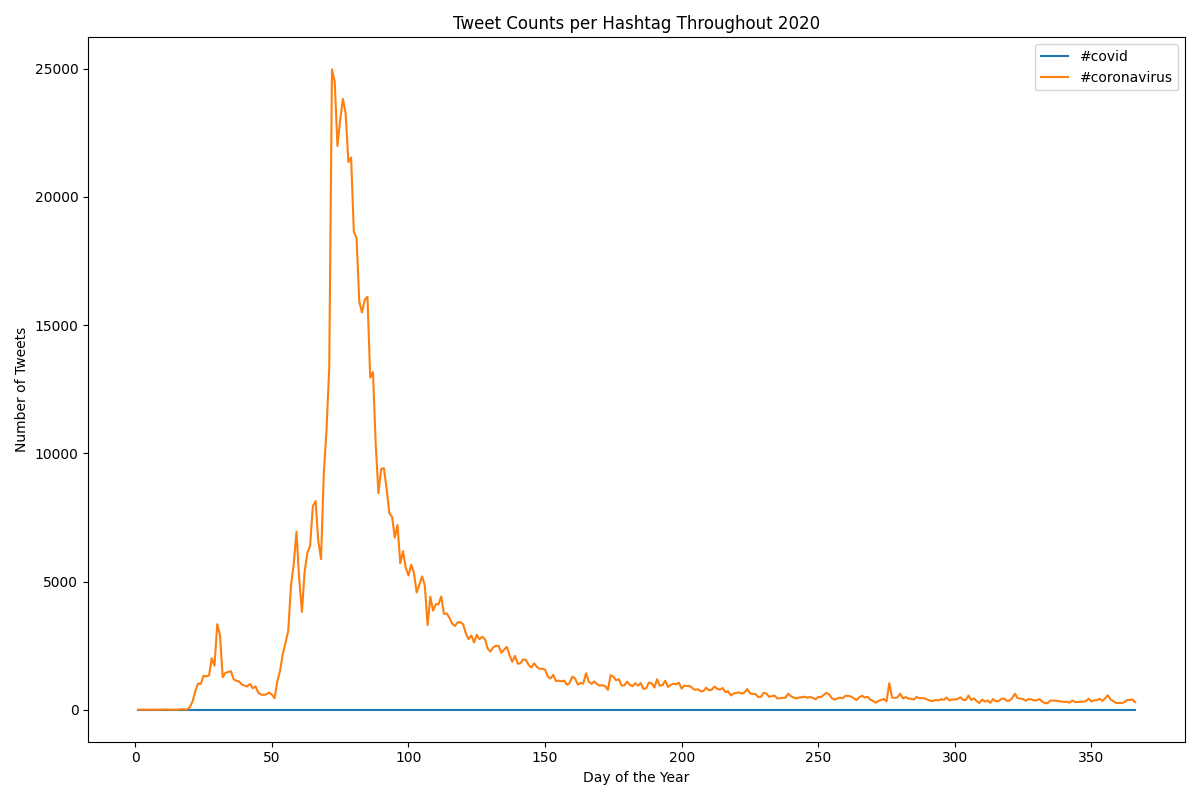
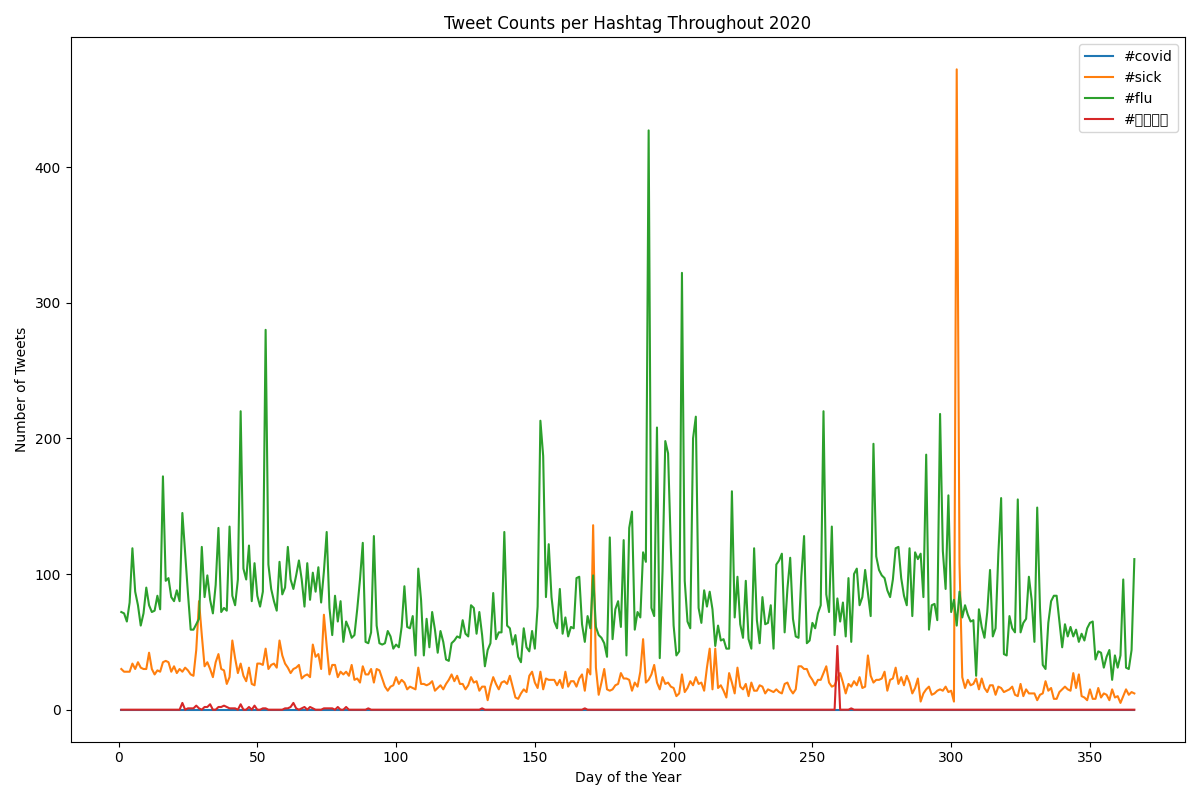
added alt_reduce

diff --git a/src/alternative_reduce.py b/src/alternative_reduce.py
@@ -1,0 +1,78 @@
+#!/usr/bin/env python3
+import argparse
+import os
+import json
+import glob
+import datetime
+import matplotlib.pyplot as plt
+from collections import defaultdict
+
+# Command line arguments: list of hashtags to plot and optionally the input folder
+parser = argparse.ArgumentParser()
+parser.add_argument('--hashtags', nargs='+', required=True, help='List of hashtags to plot')
+parser.add_argument('--input_folder', default='output', help='Folder containing mapping output files (e.g., *.lang files)')
+args = parser.parse_args()
+
+# Data structure: for each hashtag, a dictionary mapping day_of_year -> tweet count
+hashtag_daily_counts = {hashtag: {} for hashtag in args.hashtags}
+
+# Find all .lang files in the input folder. We assume mapping step produced files named like "geoTwitter20-01-01.zip.lang"
+files = glob.glob(os.path.join(args.input_folder, '*.lang'))
+
+# Process each file
+for file_path in files:
+    base_name = os.path.basename(file_path)
+    # Expecting a pattern like: geoTwitter20-01-01.zip.lang
+    if base_name.startswith("geoTwitter") and base_name.endswith(".zip.lang"):
+        # Remove prefix and suffix to isolate the date string.
+        # For example, "geoTwitter20-01-01.zip.lang" -> "20-01-01"
+        date_str = base_name[len("geoTwitter"):-len(".zip.lang")]
+        # Convert to full date; dataset is for 2020, so "20-01-01" becomes "2020-01-01"
+        full_date_str = "2020" + date_str[2:]
+        try:
+            day_date = datetime.datetime.strptime(full_date_str, "%Y-%m-%d").date()
+            day_of_year = day_date.timetuple().tm_yday
+        except Exception as e:
+            # If date parsing fails, skip this file.
+            continue
+    else:
+        continue
+
+    # Open the JSON file and load counts.
+    with open(file_path) as f:
+        counts = json.load(f)
+    
+    # For each hashtag, sum over all language counts if the hashtag is present.
+    for hashtag in args.hashtags:
+        if hashtag in counts:
+            # Sum counts over all languages for this hashtag.
+            total_count = sum(counts[hashtag].values())
+        else:
+            total_count = 0
+        hashtag_daily_counts[hashtag][day_of_year] = total_count
+
+# Plotting: For each hashtag, create a line (x-axis: day of the year; y-axis: tweet count)
+plt.figure(figsize=(12, 8))
+for hashtag, day_counts in hashtag_daily_counts.items():
+    if day_counts:
+        # Ensure we cover the full range of days present for this hashtag.
+        min_day = min(day_counts.keys())
+        max_day = max(day_counts.keys())
+        days = list(range(min_day, max_day + 1))
+        # For days with no data, default to 0.
+        counts_per_day = [day_counts.get(day, 0) for day in days]
+        plt.plot(days, counts_per_day, label=hashtag)
+    else:
+        # If no data, plot an empty line (or skip plotting)
+        plt.plot([], [], label=hashtag)
+
+plt.xlabel("Day of the Year")
+plt.ylabel("Number of Tweets")
+plt.title("Tweet Counts per Hashtag Throughout 2020")
+plt.legend()
+plt.tight_layout()
+
+# Save the line plot as a PNG file
+output_file = "alternative_reduce_line_plot.png"
+plt.savefig(output_file)
+print("Line plot saved as", output_file)

diff --git a/src/visualize.py b/src/visualize.py
@@ -12,7 +12,7 @@ args = parser.parse_args()
 import os
 import json
 from collections import Counter,defaultdict
-import matplotlib.pyplot as plt
+import matplotlib.pyplot as plt 
 
 # open the input path
 with open(args.input_path) as f:
@@ -23,25 +23,26 @@ if args.percent:
     for k in counts[args.key]:
         counts[args.key][k] /= counts['_all'][k]
 
-# print the count values
-items = sorted(counts[args.key].items(), key=lambda item: (item[1],item[0]), reverse=True)
+top10_desc = sorted(counts[args.key].items(), key=lambda item: item[1], reverse=True)[:10]
+# Then sort these top 10 in ascending order (low to high)
+top10_sorted = sorted(top10_desc, key=lambda item: item[1])
 
-top10 = items[-10:]
-keys = [k for k, v in top10]
-values = [v for k, v in top10]
-if "country" in args.input_path:
-    x="countries"
-else:
-    x="languages"
+# Extract keys and values for plotting
+keys = [k for k, v in top10_sorted]
+values = [v for k, v in top10_sorted]
 
-# Create the bar chart
-plt.figure(figsize=(10, 6))
+# Create a bar graph
+plt.figure(figsize=(10,6))
 plt.bar(keys, values, color='skyblue')
-plt.xlabel(x)
-plt.ylabel(f'{args.key} occurances')
-plt.title(f'Top 10 {x} by {args.key}')
+plt.xlabel("Keys")
+plt.ylabel("Counts")
+plt.title("Top 10 keys for " + args.key)
 plt.xticks(rotation=45)
 plt.tight_layout()
 
-# Save the plot as a PNG image
-plt.savefig(f'{args.input_path + args.key}.png')
+# Save the bar graph as a PNG file. The filename is based on the input file and key.
+output_png = args.input_path + "_" + args.key + "_bar.png"
+plt.savefig(output_png)
+plt.close()
+
+print("Bar graph saved as", output_png)
